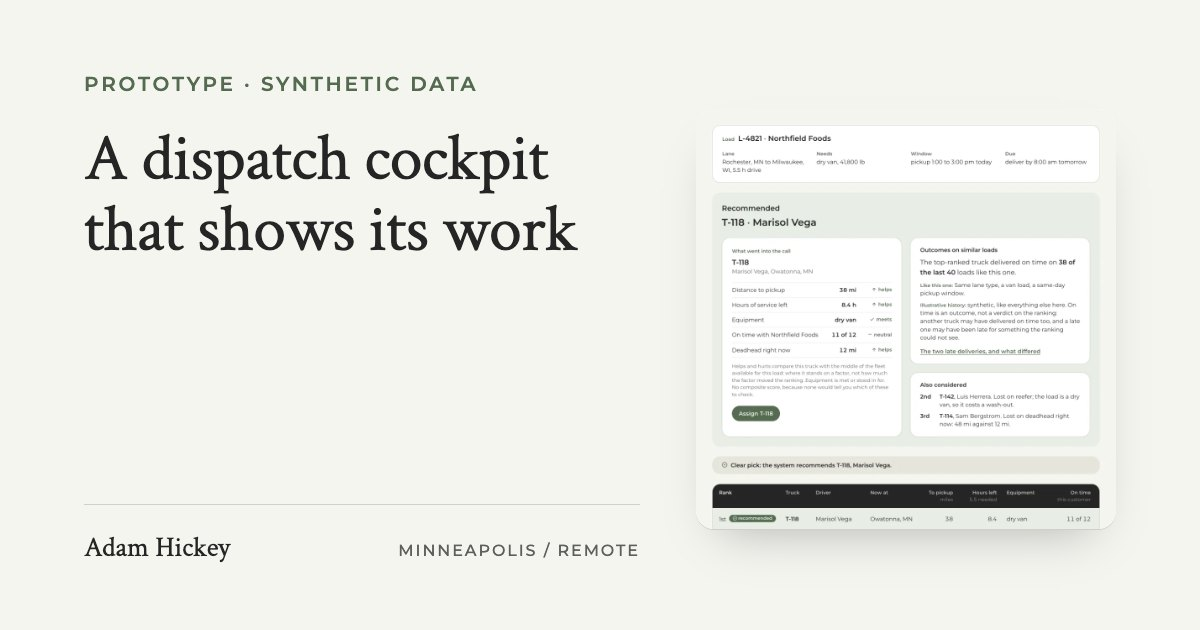
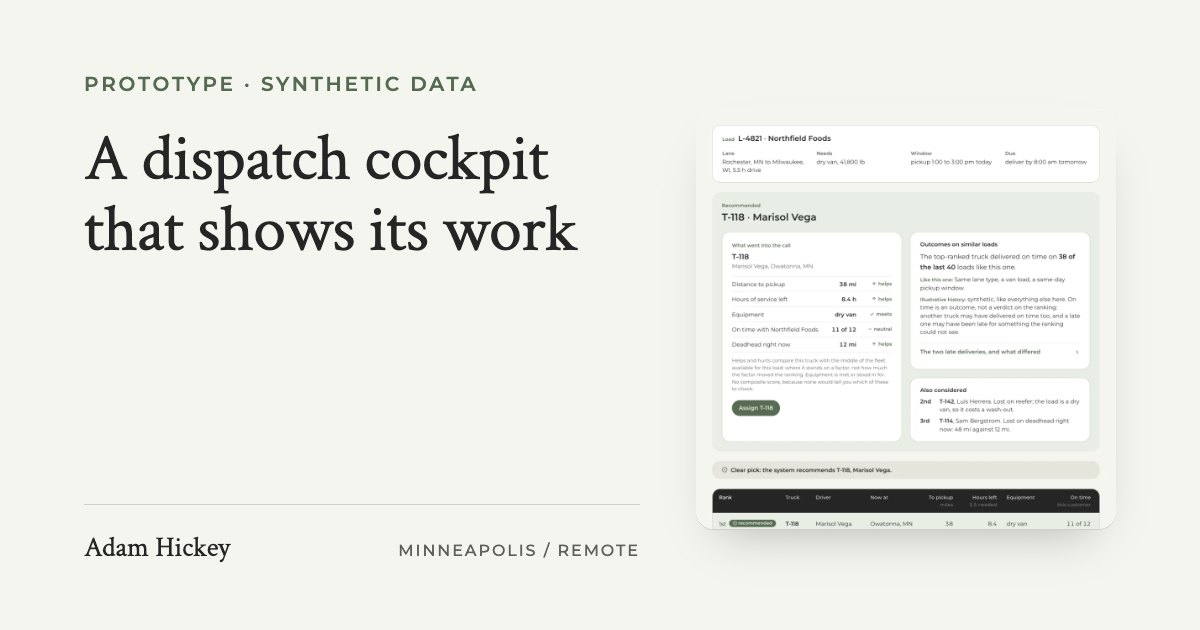
The cockpit's kicker is a label again, its switcher follows you, and its disclosure looks like one (#72)
* The cockpit's kicker is a label again, its switcher follows you, and its disclosure looks like one

Four fixes from a critique of the live page, three of them things the last
pass got wrong.

The kicker was a regression I shipped in #71. .ck-lead-kicker is a <p>
carrying .ck-label, and .ck-label is one class (0-1-0) while .case-section p
is class-and-element (0-1-1), so the label lost BOTH its size and its colour
and rendered at 18px charcoal instead of 12px sage. Every other .ck-label on
the page sits on a <span>, where nothing competes, which is why this was the
only one. The effect was "Recommended" at 18px semibold charcoal directly
above "T-118 · Marisol Vega" at 24px semibold charcoal -- six pixels and no
other difference, which is exactly the two-stacked-titles reading #71 set out
to remove. It renamed the strings and left the stacking. Fixed two classes
deep, the way this file's own header says to.

The switcher now follows you down. The cockpit is 1521px tall on a desktop
and 3220px on a phone, and the four tabs sat at the top of it: scroll to the
fleet table and the only way to another situation was to scroll all the way
back. .ck-tabs is sticky under the site header, 62px, carrying the screen's
ground. Below 64rem it is a one-row scroll strip with snap rather than the
2x2 grid from #71 -- two rows is 101px of a 844px viewport to spend on a
sticky bar -- and the cut-off fourth pill is what says it scrolls.
[…]

Changed region(s): [[0.5858, 0.3016, 0.925, 0.6937], [0.5858, 0.7238, 0.925, 0.8444]]

diff --git a/prototype/dispatch-cockpit.css b/prototype/dispatch-cockpit.css
@@ -170,6 +170,18 @@
   color: var(--color-accent-text);
 }
 
+/* ---------- The hero, into the cockpit ----------
+   120px of nothing sat between the disclosure card and "The cockpit" at
+   1440, and 96 at 390: the hero's own bottom padding plus the chapter's
+   top. On a build write-up that gap is a section change and earns its
+   keep, because the chapter under the hero is a different ground. Here it
+   is not -- the hero is warm and this chapter is ground-warm -- so the two
+   paddings stack across a boundary nobody can see, and the page opens with
+   a hole. The chapter keeps a break; it just stops paying for one twice.
+   Scoped to this page, because the other three build write-ups do change
+   ground there and their spacing is right. */
+#the-cockpit { padding-top: var(--space-2xl); }
+
 /* ---------- The cockpit frame ----------
    The prototype is framed rather than set loose on the ground, for the
    reason style.css gives for .build-phone and .build-laptop: a page that
@@ -231,15 +243,30 @@
   gap: var(--space-xl);
   margin-top: var(--space-xl);
 }
+/* The rail is two parts so a phone can put them either side of the cockpit:
+   what this situation IS reads before the interface, and the three callouts
+   about specific elements read after it, because on one column they were 700px
+   of annotation about things not yet on screen. Source order is already
+   intro, cockpit, notes, so the phone needs no rule at all; the two-column
+   layout is what has to put them back together. */
 @media (min-width: 64rem) {
   .ck-stage {
     grid-template-columns: minmax(16rem, 19rem) minmax(0, 1fr);
-    gap: var(--space-2xl);
+    grid-template-areas:
+      "intro panel"
+      "notes panel";
+    grid-template-rows: auto 1fr;
+    gap: var(--space-lg) var(--space-2xl);
     align-items: start;
   }
-  .ck-rail {
+  .ck-rail-intro { grid-area: intro; }
+  .ck-rail-notes { grid-area: notes; }
+  .ck-panel { grid-area: panel; }
+  /* The notes are what you refer back to while scrolling the cockpit, so
+     they are the half that follows. Parked below the sticky switcher. */
+  .ck-rail-notes {
     position: sticky;
-    top: calc(var(--nav-height) + var(--space-lg));
+    top: calc(var(--nav-height) + var(--space-4xl) + var(--space-md));
   }
 }
 .ck .ck-rail-h {
@@ -253,7 +280,7 @@
 }
 .ck-callouts {
   list-style: none;
-  margin: var(--space-lg) 0 0;
+  margin: 0;
   padding: 0;
   display: grid;
   gap: var(--space-md);
@@ -281,7 +308,7 @@
   display: flex;
   align-items: flex-start;
   gap: var(--space-xs);
-  margin: var(--space-lg) 0 0;
+  margin: var(--space-md) 0 0;
   padding: var(--space-sm) var(--space-md);
   border-radius: var(--radius-xl);
   background: var(--color-tea-light);
@@ -366,18 +393,42 @@
   line-height: var(--leading-ui);
   color: var(--color-muted-gray);
 }
+/* Sticky, because the cockpit is 1521px tall on a desktop and 3220px on a
+   phone: scroll to the fleet and the only way back to another situation was
+   to scroll all the way up. It parks under the site header, carries the
+   screen's own ground so cards do not show through, and sits above them.
+   The label above it is allowed to scroll away -- four named situations say
+   what they are once you have read it once. */
 .ck-tabs {
+  position: sticky;
+  top: var(--nav-height);
+  z-index: 2;
   display: flex;
   flex-wrap: wrap;
   gap: var(--space-2xs);
+  padding-block: var(--space-sm);
+  margin-block: calc(-1 * var(--space-sm));
+  background: var(--color-warm);
 }
-/* Below the width where the rail sits beside the cockpit, four pills do not
-   share one row: on a phone they stacked to four rows, 165px of control
-   before any content, and at 768 they split three and one. Two by two is
-   one glance at every width under 64rem; from there the row fits. */
+/* Below the width where the row fits, the four pills scroll sideways in one
+   row rather than wrapping. Two by two was 101px of sticky bar on a phone,
+   which is too much of a 844px viewport to spend on a switcher; one row is
+   62px. The fourth pill is deliberately cut off at the right edge, which is
+   what tells you the strip scrolls. Snap so a flick lands on a whole pill.
+   The negative margin lets the strip bleed to the screen's edge while its
+   padding keeps the first pill on the content line. */
 @media (max-width: 63.98rem) {
-  .ck-tabs { display: grid; grid-template-columns: repeat(2, minmax(0, 1fr)); }
-  .ck .ck-tab { justify-content: center; }
+  .ck-tabs {
+    flex-wrap: nowrap;
+    overflow-x: auto;
+    scroll-snap-type: x proximity;
+    scrollbar-width: none;
+    margin-inline: calc(-1 * var(--space-md));
+    padding-inline: var(--space-md);
+    scroll-padding-inline: var(--space-md);
+  }
+  .ck-tabs::-webkit-scrollbar { display: none; }
+  .ck .ck-tab { flex: 0 0 auto; scroll-snap-align: start; }
 }
 .ck .ck-tab {
   appearance: none;
@@ -514,7 +565,19 @@
 /* A close call is the one state where the zone is not "fine". An attribute,
    not a class, so states.mjs does not read it as script-applied state. */
 .ck-lead[data-tone="close"] { background: var(--color-caution-light); }
-.ck .ck-lead-kicker { margin: 0 0 var(--space-2xs); }
+/* Two classes deep, and for the reason this file's header gives: .ck-label is
+   one class (0-1-0) and .case-section p is class-and-element (0-1-1), so a
+   label on a <p> loses both its size and its colour. Every other .ck-label on
+   the page sits on a <span>, where nothing competes, which is why this was
+   the only one rendering at 18px charcoal instead of 12px sage -- close
+   enough to the 24px headline under it to read as a second title, which is
+   the stacking this kicker was introduced to remove. */
+.ck .ck-lead-kicker {
+  margin: 0 0 var(--space-2xs);
+  font-size: var(--text-xs);
+  line-height: var(--leading-ui);
+  color: var(--color-accent-text);
+}
 .ck-lead[data-tone="close"] .ck-lead-kicker { color: var(--color-caution-text); }
 .ck .ck-reco-h {
   margin: 0;
@@ -665,21 +728,41 @@
   line-height: var(--leading-ui);
   color: var(--color-charcoal);
 }
-.ck-misses { margin-top: var(--space-sm); }
+/* A disclosure that looks like one. It was sage underlined text, which is
+   this site's link, so the one control on the card that expands in place
+   read as a control that navigates away -- and its hit area was the 20px
+   of the words themselves. It is now a full-width row: label left, chevron
+   right, a rule above it, and the whole row clickable at 44px. The chevron
+   turns to point down when it is open, which is the only thing on this page
+   that moves, and the site's reduced-motion blanket stops it. */
+.ck-misses { margin-top: var(--space-md); border-top: 1px solid var(--rule-hairline); }
 .ck-misses summary {
-  display: inline-block;
+  display: flex;
+  align-items: center;
+  justify-content: space-between;
+  gap: var(--space-sm);
+  min-height: 2.75rem;
+  padding: var(--space-xs) 0;
   cursor: pointer;
   font-size: var(--text-sm);
   font-weight: var(--weight-semibold);
   line-height: var(--leading-ui);
   color: var(--color-accent-text);
-  text-decoration: underline;
-  text-underline-offset: 0.2em;
   transition: color var(--motion-state) var(--ease);
 }
+/* Safari draws its own triangle on a summary with any display but list-item;
+   both of these are needed to be rid of it. */
+.ck-misses summary::-webkit-details-marker { display: none; }
+.ck-misses summary::marker { content: ''; }
 .ck-misses summary:hover { color: var(--color-accent-hover); }
+.ck .ck-misses-chev {
+  flex-shrink: 0;
+  transform: rotate(-90deg);
+  transition: transform var(--motion-state) var(--ease);
+}
+.ck-misses[open] .ck-misses-chev { transform: rotate(0deg); }
 .ck-miss-list {
-  margin: var(--space-sm) 0 0;
+  margin: 0 0 var(--space-sm);
   padding: 0 0 0 var(--space-lg);
   display: grid;
   gap: var(--space-sm);

diff --git a/prototype/dispatch-cockpit.html b/prototype/dispatch-cockpit.html
@@ -18,7 +18,7 @@
   <meta property="og:url" content="https://adamhickey.com/prototype/dispatch-cockpit.html" />
   <meta property="og:title" content="A dispatch cockpit that shows its work | Adam Hickey" />
   <meta property="og:description" content="A self-directed prototype of an AI truck recommendation for freight dispatch, on synthetic data: the factors weighed and where each one stands, outcomes from similar loads instead of a confidence percentage, a one-click override that asks why afterwards, and the whole fleet always in reach." />
-  <meta property="og:image" content="https://adamhickey.com/img/og/dispatch-cockpit.jpg?v=5" />
+  <meta property="og:image" content="https://adamhickey.com/img/og/dispatch-cockpit.jpg?v=6" />
   <meta property="og:image:width" content="1200" />
   <meta property="og:image:height" content="630" />
   <meta name="twitter:card" content="summary_large_image" />
@@ -38,7 +38,7 @@
           "description": "A self-directed prototype of an AI truck recommendation for freight dispatch, on synthetic data: the factors weighed and where each one stands, outcomes from similar loads instead of a confidence percentage, a one-click override that asks why afterwards, and the whole fleet always in reach.",
           "url": "https://adamhickey.com/prototype/dispatch-cockpit.html",
           "mainEntityOfPage": "https://adamhickey.com/prototype/dispatch-cockpit.html",
-          "image": "https://adamhickey.com/img/og/dispatch-cockpit.jpg?v=5",
+          "image": "https://adamhickey.com/img/og/dispatch-cockpit.jpg?v=6",
           "datePublished": "2026-09-10",
           "dateModified": "2026-09-11",
           "author": {
@@ -106,11 +106,11 @@
   <link rel="stylesheet" href="../type.css?v=3" />
   <link rel="stylesheet" href="../style.css?v=20260910c" />
   <link rel="stylesheet" href="../site-nav.css?v=20260908a" />
-  <link rel="stylesheet" href="dispatch-cockpit.css?v=6" />
+  <link rel="stylesheet" href="dispatch-cockpit.css?v=8" />
   <script src="../site-nav.js?v=20260906a" defer></script>
   <!-- The cockpit. Deferred, no dependencies, no build step; the synthetic
        fleet is the object at the top of the file. -->
-  <script src="dispatch-cockpit.js?v=5" defer></script>
+  <script src="dispatch-cockpit.js?v=6" defer></script>
   <!-- The header logo plays a one-shot reveal clip on load and fades out
        over the static mark as it finishes. The class is set here, before
        first paint, so the static mark never flashes ahead of the animation;
@@ -294,11 +294,16 @@
                render, and CSS draws the number from it. Content in DATA,
                mechanism generic; a scenario names its own callouts. -->
           <div class="ck-stage" id="ck-panel" role="tabpanel" aria-labelledby="ck-tab-confident">
-            <aside class="ck-rail" aria-labelledby="ck-rail-h">
+            <!-- The rail in two parts, in the order a phone wants them:
+                 what the situation IS, then the cockpit, then the three
+                 callouts about elements on it. Two columns put them back in
+                 one rail with grid-template-areas. Each half is its own
+                 labelled region; the second heading is for a screen reader,
+                 since the numbered callouts under it say the same thing to
+                 anyone who can see them. -->
+            <aside class="ck-rail ck-rail-intro" aria-labelledby="ck-rail-h">
               <h3 class="ck-rail-h" id="ck-rail-h">In this situation</h3>
               <p class="ck-blurb"></p>
-              <ol class="ck-callouts"></ol>
-              <p class="ck-rail-try"></p>
             </aside>
             <div class="ck-panel">
               <div class="ck-load"></div>
@@ -318,6 +323,11 @@
                 </div>
               </div>
             </div>
+            <aside class="ck-rail ck-rail-notes" aria-labelledby="ck-notes-h">
+              <h3 class="ck-rail-h ck-visually-hidden" id="ck-notes-h">What to look for</h3>
+              <ol class="ck-callouts"></ol>
+              <p class="ck-rail-try"></p>
+            </aside>
           </div>
           <noscript>
             <p>The cockpit is built in JavaScript and it is switched off here, so the panel above is empty. The four principles below describe what it does; the source is <a href="dispatch-cockpit.js">dispatch-cockpit.js</a>, with the fleet as a plain object at the top.</p>

diff --git a/prototype/dispatch-cockpit.js b/prototype/dispatch-cockpit.js
@@ -207,6 +207,7 @@
     history:  '<path d="M3 12a9 9 0 1 0 9-9 9.75 9.75 0 0 0-6.74 2.74L3 8"/><path d="M3 3v5h5"/><path d="M12 7v5l4 2"/>',
     list:     '<path d="M3 12h.01"/><path d="M3 18h.01"/><path d="M3 6h.01"/><path d="M8 12h13"/><path d="M8 18h13"/><path d="M8 6h13"/>',
     info:     '<circle cx="12" cy="12" r="10"/><path d="M12 16v-4"/><path d="M12 8h.01"/>',
+    chevron:  '<path d="m6 9 6 6 6-6"/>',
     pointer:  '<path d="M9 9l5 12 1.8-5.2L21 14Z"/><path d="M7.2 2.2 8 5.1"/><path d="m5.1 8-2.9-.8"/><path d="M14 4.1 12 6"/><path d="m6 12-1.9 2"/>',
   };
   const TAB_ICON = { confident: 'checkCircle', tie: 'help', override: 'undo', rule: 'ban' };
@@ -394,7 +395,7 @@
       <p class="ck-conf-like"><span class="ck-label">Like this one:</span> ${esc(r.like)}</p>
       <p class="ck-conf-like"><span class="ck-label">Illustrative history:</span> synthetic, like everything else here. On time is an outcome, not a verdict on the ranking: another truck may have delivered on time too, and a late one may have been late for something the ranking could not see.</p>
       <details class="ck-misses">
-        <summary>${r.misses.length === late ? `The ${n} late deliveries, and what differed` : `${r.misses.length === 2 ? 'Two' : r.misses.length} of the ${late} late deliveries, most recently`}</summary>
+        <summary><span class="ck-misses-label">${r.misses.length === late ? `The ${n} late deliveries, and what differed` : `${r.misses.length === 2 ? 'Two' : r.misses.length} of the ${late} late deliveries, most recently`}</span>${icon('chevron', 'ck-icon ck-misses-chev')}</summary>
         <ol class="ck-miss-list">${r.misses.map((m) => `<li>
           <p class="ck-miss-what"><span class="ck-miss-load">${esc(m.load)}</span> ${esc(m.what)}</p>
           <p class="ck-miss-tell"><span class="ck-label">What to watch for:</span> ${esc(m.tell)}</p>

diff --git a/index.html b/index.html
@@ -482,7 +482,7 @@
                morph into. -->
           <a class="case-card case-card--prototype reveal" href="prototype/dispatch-cockpit.html" aria-label="Open the prototype: A dispatch cockpit that shows its work">
             <div class="case-thumb">
-              <img decoding="async" loading="lazy" src="img/site/dispatch-cockpit.webp?v=5" alt="The cockpit&rsquo;s recommendation panel: a load, the truck it puts the load on, the factors it weighed with their values, and the outcomes of similar loads beside them." width="1000" height="1000"/>
+              <img decoding="async" loading="lazy" src="img/site/dispatch-cockpit.webp?v=6" alt="The cockpit&rsquo;s recommendation panel: a load, the truck it puts the load on, the factors it weighed with their values, and the outcomes of similar loads beside them." width="1000" height="1000"/>
             </div>
             <div class="case-card-body">
               <h3>A dispatch cockpit that shows its work</h3>
